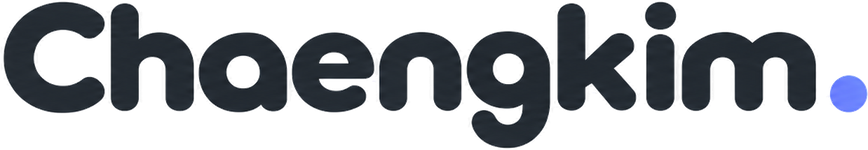
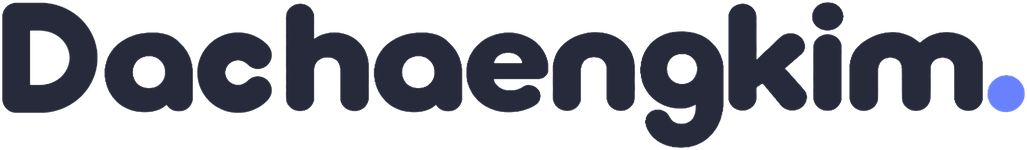
feat: 홈 로고를 다챙김 워드마크로 교체
새 브랜드 이름 Dachaengkim에 맞춰 홈 상단 로고를 바꿨다. 원본의 흰 배경은
투명하게 하고, 가장자리를 흰색에서 분리해 연한 배경 위에서도 흰 테두리가
남지 않게 했다. 글자가 길어진 만큼 높이는 24로 두고 가로만 늘렸다.

앱 이름(app.json name)과 아이콘은 그대로 둔다.

- 화면 읽기 레이블과 Maestro 홈 시나리오의 로고 확인 문구를 다챙김으로 맞춤

diff --git a/app/(tabs)/index.tsx b/app/(tabs)/index.tsx
@@ -119,7 +119,7 @@ export default function HomeScreen() {
               onLongPress={() => router.push("/test-lab")}
               delayLongPress={800}
               accessibilityRole="header"
-              accessibilityLabel="챙김"
+              accessibilityLabel="다챙김"
               accessibilityHint="길게 누르면 테스트 랩이 열려요"
             >
               <Image
@@ -328,7 +328,7 @@ function SummaryTile({ icon, label, value, sub, accent, onPress }: {
 
 const styles = StyleSheet.create({
   // Wordmark artwork is 868×150.
-  wordmark: { height: 24, width: (24 * 868) / 150 },
+  wordmark: { height: 24, width: (24 * 1027) / 150 },
   stageActions: { alignSelf: "stretch", gap: 10, marginTop: 20, alignItems: "stretch" },
   testBtn: {
     flexDirection: "row",
